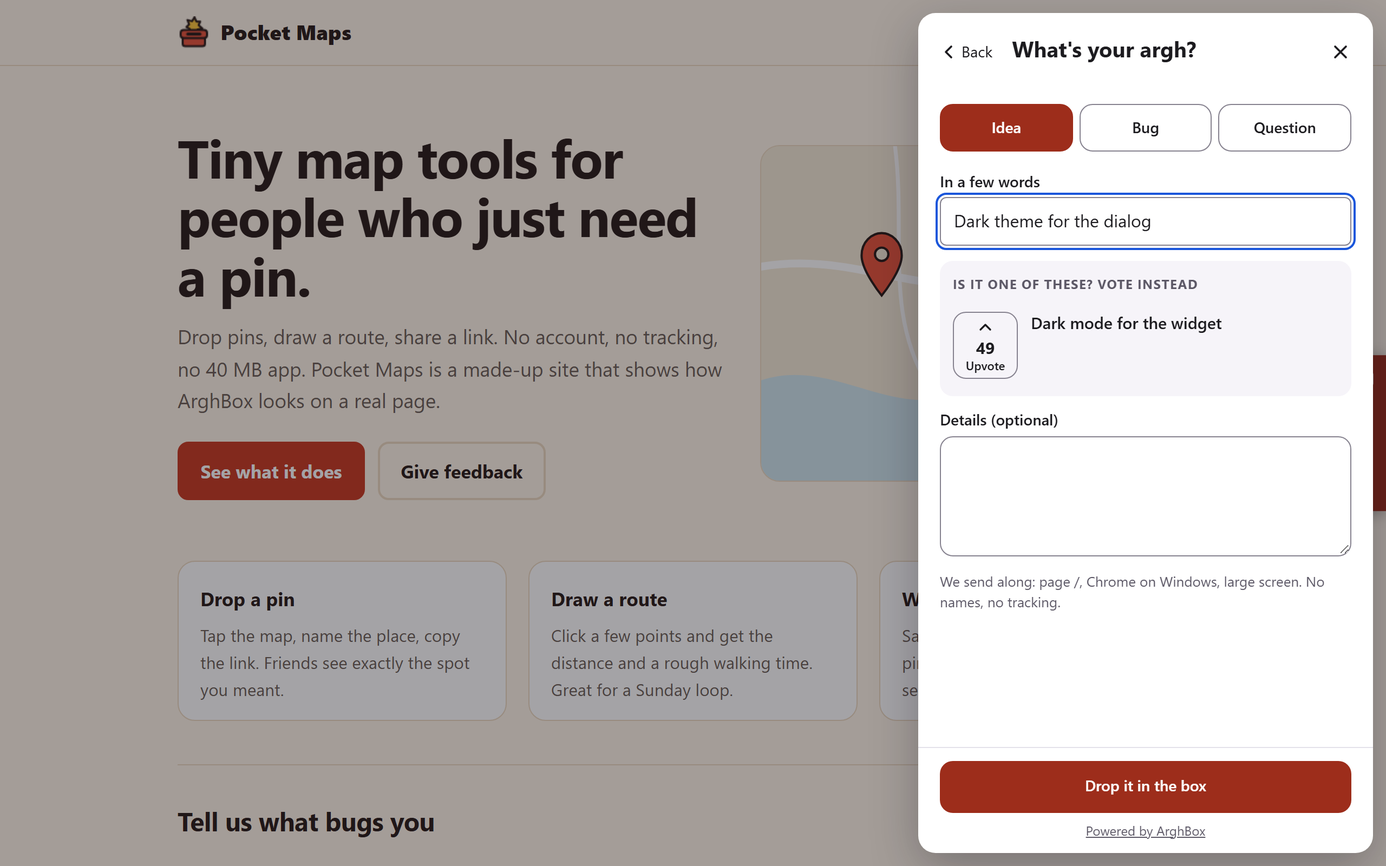
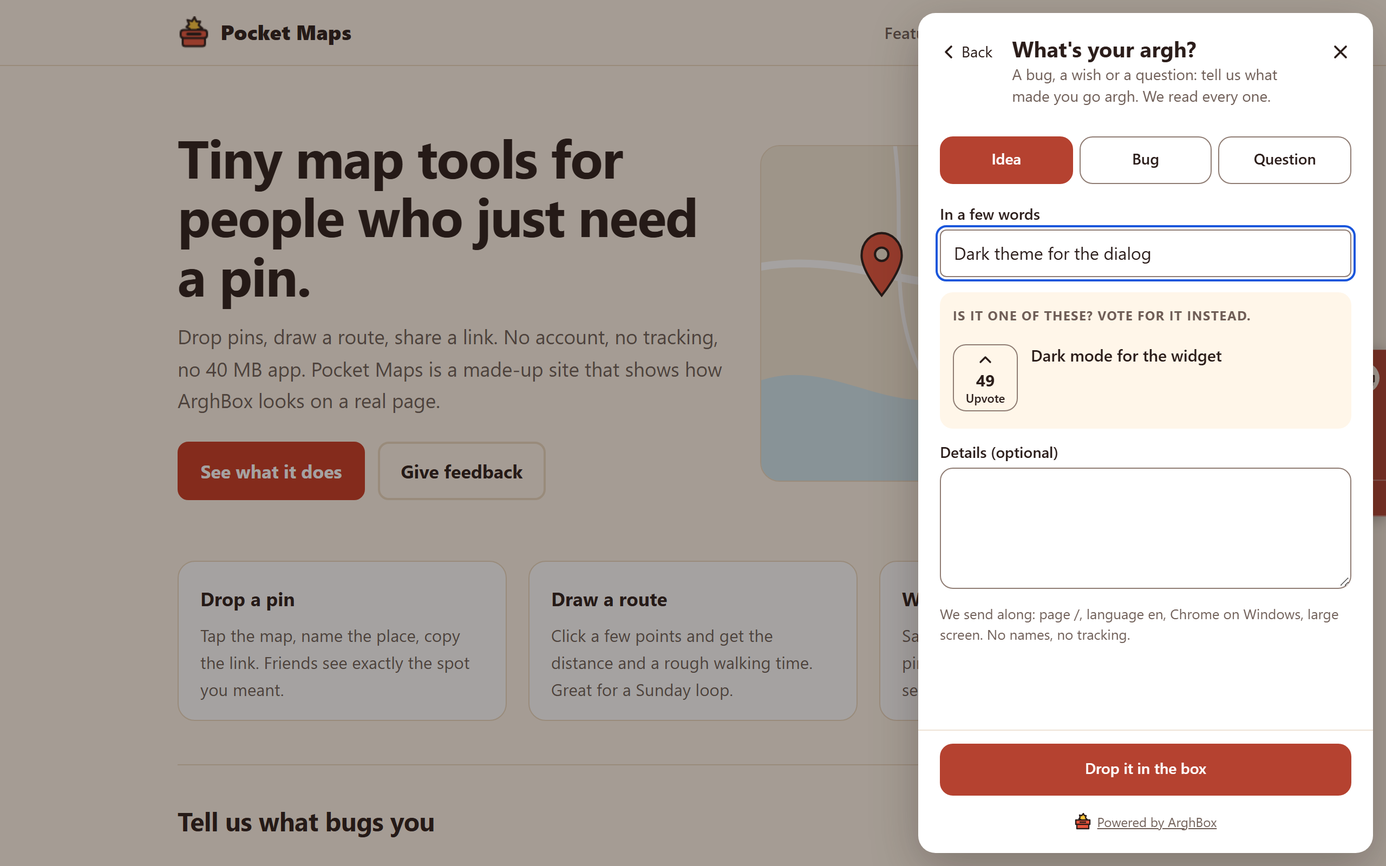
Update documentation and improve local preview functionality
- Enhanced `configuration.md` to clarify CORS settings and added details about the ArghBox logo and color customization.
- Updated `install.md` with instructions for testing on a local environment without a server and added guidance for running a real box.
- Modified various images in the documentation to reflect recent changes.
- Improved end-to-end tests to ensure accurate behavior of the ArghBox widget, including local preview scenarios and error handling.
- Added unit tests for the local preview's in-memory API to validate functionality without a server.
- Adjusted API tests to confirm CORS behavior with allowed origins ending in ":*".
- Updated size budget for `arghbox-app.js` in the size check tests.

diff --git a/demo/index.html b/demo/index.html
@@ -21,6 +21,7 @@
       <a href="#feedback">Feedback</a>
       <a href="#faq">FAQ</a>
       <a href="/arghbox/admin/">Admin</a>
+      <a class="fb-icon" id="header-feedback" href="#arghbox" aria-label="Feedback: share an idea or report a bug" title="Feedback"><svg viewBox="0 0 32 32" width="22" height="22" aria-hidden="true"><path fill="#ffc83d" d="M17 1l2 4h3l-1 4 3 3-4 1-1 4-3-3-4 3v-5l-3-1 2-3-1-4 4 1z"/><path fill="#e8553d" d="M3 13h26v8H3zM5 21v8h22v-8M10 17h12"/></svg></a>
     </nav>
   </div>
 </header>
@@ -60,7 +61,7 @@
       <div class="demo-links">
         <strong>Try the ways to open it</strong>
         <ul>
-          <li><a href="#arghbox">Open the feedback box</a> (<code>#arghbox</code> link)</li>
+          <li><a href="#arghbox">Open the feedback box</a> (<code>#arghbox</code> link; the ArghBox icon at the top right is one too)</li>
           <li><a href="#arghbox-bug">Report a bug</a> (<code>#arghbox-bug</code> link, starts on a bug)</li>
           <li><a href="#arghbox-add">Add a new idea</a> (<code>#arghbox-add</code> link)</li>
           <li><button class="btn ghost" type="button" id="open-api">Open from JavaScript</button> (<code>ArghBox.open()</code>)</li>

diff --git a/demo/demo.css b/demo/demo.css
@@ -47,6 +47,9 @@ header.top .wrap { display: flex; align-items: center; gap: 1rem; padding-top: .
 nav { margin-left: auto; display: flex; gap: 1.25rem; flex-wrap: wrap; }
 nav a { color: var(--muted); text-decoration: none; font-weight: 600; font-size: .95rem; }
 nav a:hover { color: var(--ink); }
+nav .fb-icon { display: inline-flex; align-items: center; }
+.fb-icon svg { stroke: currentColor; stroke-width: 2; stroke-linejoin: round; }
+@media (prefers-reduced-motion: no-preference) { .fb-icon svg { transition: transform .2s; } .fb-icon:hover svg { transform: rotate(-8deg) scale(1.08); } }
 
 .hero { padding: 3.5rem 0 2.5rem; display: grid; gap: 2rem; grid-template-columns: 1.1fr .9fr; align-items: center; }
 .hero h1 { font-size: clamp(2rem, 5vw, 3.1rem); line-height: 1.1; margin: 0 0 1rem; letter-spacing: -.02em; }

diff --git a/arghbox/arghbox-preview.js b/arghbox/arghbox-preview.js
@@ -11,6 +11,7 @@
 
   // Returns the widget's call(action, body) for the preview. api: the URL that did not answer; code: how it failed.
   window.__arghboxPreview = function (api, code) {
+    api = String(api).replace(/^https?:\/\//, ''); // shown as text: the dialog links only the docs
     var why = code === 'not_configured' ? 'the ArghBox at ' + api + ' has no config.php yet'
       : code === 'network' ? 'no ArghBox server answered at ' + api
       : 'the answer from ' + api + ' was not ArghBox (is PHP running there?)';

diff --git a/arghbox/config.example.php b/arghbox/config.example.php
@@ -44,6 +44,7 @@ return [
 
     // Extra origins allowed to call the public API from a browser (CORS).
     // The site's own origin always works. Example: ['https://www.example.com'].
+    // An origin ending in ":*" allows that host on any port, for development: ['http://localhost:*'].
     'allowed_origins' => [],
 
     // Absolute path outside the web root, or null for automatic (arghbox-private/ next to the web root; see docs).

diff --git a/docs/SPEC.md b/docs/SPEC.md
@@ -37,7 +37,8 @@ fix one of them in the same change. Version 0.1.0.
 ```
 arghbox/                  the folder site owners upload, served at /arghbox/
   arghbox.js              loader: tab + JS API, < 4 KB gzipped
-  arghbox-app.js          dialog, loaded on first intent, < 20 KB gzipped
+  arghbox-app.js          dialog, loaded on first intent, < 21 KB gzipped
+  arghbox-preview.js      the local preview's in-memory box, loaded only on a local dev host (section 8)
   app.html                the mobile app page: the dialog full screen, for an app's WebView (section 8b)
   app-page.js             that page's script: URL parameters, loader tag, bridges to the app, < 2 KB gzipped
   i18n/en.json            widget strings (source of truth for translations)
@@ -84,7 +85,7 @@ Version string `0.1.0` appears in `arghbox/VERSION`, `ArghBox.version` in both J
 | `owner_token_sha256` | `''` | sha256 hex of the owner token (admin page sign-in, admin API) |
 | `triage_token_sha256` | `''` | sha256 hex of the triage token (admin API only) |
 | `trusted_ip_header` | `''` | `''` uses `REMOTE_ADDR`; `'HTTP_CF_CONNECTING_IP'` behind Cloudflare; `'HTTP_X_REAL_IP'` for Hostinger CDN |
-| `allowed_origins` | `[]` | Extra origins allowed to call the public API (CORS). Same origin always works. |
+| `allowed_origins` | `[]` | Extra origins allowed to call the public API (CORS). Same origin always works. An entry ending in `:*` (`'http://localhost:*'`) allows that scheme and host on any port, or none; meant for development |
 | `data_dir` | `null` | Absolute path; `null` means automatic (below) |
 | `moderation` | `'pending'` | `'pending'`: new entries wait for triage. `'publish'`: shown at once. |
 | `auto_apply_min_confidence` | `80` | Triage decisions below it are stored as `flag` (owner decides) |
@@ -284,7 +285,8 @@ Error codes: `bad_request`, `invalid_input`, `method_not_allowed`, `not_found`,
 (403: a read-only token on a write, or the owner token on MCP), `conflict`, `not_configured`,
 `busy` (503 + `Retry-After: 2`: another PHP worker holds the database; retry), `server_error`.
 
-**CORS.** Same-origin requests need nothing. For an `Origin` in `allowed_origins`, answer with
+**CORS.** Same-origin requests need nothing. For an `Origin` in `allowed_origins` (exact match, or
+an entry `<scheme>://<host>:*` matching that scheme and host with any port or none), answer with
 `Access-Control-Allow-Origin: <origin>`, `Vary: Origin`, `Access-Control-Allow-Methods: GET,
 POST, OPTIONS`, `Access-Control-Allow-Headers: Content-Type, X-ArghBox-Voter`, `Access-Control-Max-Age:
 600`, and answer `OPTIONS` with 204. A POST whose `Origin` is neither same-origin nor allowed
@@ -676,7 +678,7 @@ Attributes (all optional):
 | `data-label` | tab text | `"Feedback"` (from strings) |
 | `data-lang` | language code | `<html lang>`, else `en` |
 | `data-theme` | `auto` (prefers-color-scheme), `light`, `dark`, `host` (follows `html.dark` class or `html[data-theme="dark"]`, watched with a MutationObserver) | `auto` |
-| `data-accent` | any CSS colour, including `var(--host-var)` (custom properties cross the shadow boundary) | `#e8553d` |
+| `data-accent` | any CSS colour, including `var(--host-var)` (custom properties cross the shadow boundary); sets `--arghbox-accent` on the wrapper (see Host styling) | `#e8553d` |
 | `data-tone` | `funny`, `neutral` | `funny` |
 | `data-tab` | `on`, `off` (no tab; open with the JS API or a `#arghbox` link) | `on` |
 | `data-tab-min-width` | viewport width in px below which the edge tab is not shown (it follows rotation and resizing). `ArghBox.open()`, `#arghbox` links and `ArghBox.showTab()` still work, and `#arghbox-root[data-tab]` and the `arghbox:tab` event follow. For pages that have their own Feedback button on narrow screens | `0` (always shown) |
@@ -714,9 +716,12 @@ window.ArghBox = {
   no network request at load.
 - Finds its own URL with `document.currentScript` (fallback: the last `script[src*="arghbox.js"]`).
 - Creates `<div id="arghbox-root">` at the end of `body` with an **open** Shadow DOM. Styles go
-  into the shadow root (adoptedStyleSheets when supported, else a `<style>` element). Nothing
-  else in the host DOM except the Turnstile container (below).
-- Renders the tab: vertical "Feedback" label on the chosen edge with a small box icon, and the ×
+  into the shadow root as a constructable stylesheet (`adoptedStyleSheets`, every supported browser
+  has it; the app keeps a `<style>` fallback). Nothing else in the host DOM except the Turnstile
+  container (below).
+- Renders the tab: vertical "Feedback" label on the chosen edge under the ArghBox mark (the burst
+  in yellow and the box in the accent, `art/logo-mark-small.svg` simplified, an inline SVG built
+  with `createElementNS`) on a cream badge, and the ×
   (a separate button with `aria-label="Hide feedback button"`). Keyboard focusable, visible
   focus ring, respects `prefers-reduced-motion`.
 - Prefetches `arghbox-app.js` on tab `pointerenter`, `focus` or `touchstart`; loads it on click
@@ -727,7 +732,7 @@ window.ArghBox = {
   (`tools/translate.mjs` rewrites this block), and the list of available languages between
   `/* arghbox:langs:start */` and `/* arghbox:langs:end */` as `var LANGS = ["en"];`.
 
-### App (`arghbox-app.js`, < 20 KB gzipped)
+### App (`arghbox-app.js`, < 21 KB gzipped)
 - Fetches `i18n/<lang>.json` (lang matched against `LANGS`: exact, then the part before `-`,
   else `en`) and `api.php?action=list` in parallel when it mounts.
 - **Dialog**: `role="dialog"`, `aria-modal="true"`, labelled by its title, focus trapped, Esc and
@@ -778,7 +783,8 @@ window.ArghBox = {
     - Similarity is computed in the browser from the loaded list, with no network: titles,
       aliases, tags and the start of the body; lowercase, accents and punctuation stripped,
       word overlap plus prefix matches.
-  - Thanks: "Your argh is in the box." (pending) or "Your argh is up." (publish mode).
+  - Thanks: "Your argh is in the box." (pending) or "Your argh is up." (publish mode), with "Thanks for helping
+    us improve {site}!".
   - **Report** (section 6b): the detail view of a visitor entry (never `source: owner`) has a small "Report"
     button. It opens an inline choice of four reasons (Spam, Rude or abusive, Not about this site or app,
     Something else) with "Send report" and "Cancel". Sending needs a pass, like voting. On success the entry id
@@ -804,8 +810,27 @@ window.ArghBox = {
   works and voting/adding show a friendly message.
 - **Errors**: every error code from section 6 maps to a friendly string; `rate_limited` shows
   the wait in minutes. The dialog never shows raw JSON.
-- **Credit**: when `credit` is true and `data-credit` is not `off`, a small "ArghBox" link in the
-  footer to `https://github.com/BinaryBananaLLC/ArghBox` (`rel="noopener"`, `target="_blank"`).
+- **Credit**: when `credit` is true and `data-credit` is not `off`, a small "Powered by ArghBox" link
+  with the ArghBox mark in its own colours (outline in the text colour) in the footer, to `https://arghbox.com/`
+  (`rel="noopener"`, `target="_blank"`).
+- **What the box is for**: every view says it in plain words. The list header has a subtitle ("Found a bug or
+  missing a feature on {site}? Tell us, or upvote what others asked for. No account needed."), the add form one
+  too ("... We read every one."). These follow the usual pattern of feedback widgets: a short title, one line on
+  what to do and that no account is needed, and a thank-you at the end.
+- **Local preview**: when the first `list` fails with `network`, `not_configured` or an answer that is not JSON
+  at all, on a page whose host is `localhost`, `127.0.0.1`, `[::1]` or `*.localhost`, and
+  `window.ArghBoxConfig.localPreview` is not `false`, the app loads `arghbox-preview.js?v=<version>` (with the
+  nonce and the Trusted Types policy) and sends every API call to its in-memory box instead: sample entries of
+  every type and status, voting and adding that work until a reload, no Turnstile (it answers `app_pass: true`),
+  no receipts, ids above 900000 so remembered votes and reports never touch a real box. The `welcome` text says
+  "Local preview", what did not answer (the API URL without its scheme, so it is not a link) and links to
+  `docs/install.md#test-on-your-computer`. A JSON error from a real box never switches to the preview.
+  Production hosts never load the file. The point: a site can try its integration (placement, colours, its own
+  buttons and links) on its dev server before it has PHP or a box.
+- **Host styling**: hosts restyle the widget with CSS custom properties set on `:root` or `#arghbox-root` (they
+  cross the shadow boundary): `--arghbox-accent` (what `data-accent` sets on the wrapper, so the attribute wins),
+  `--arghbox-bg`, `--arghbox-fg`, `--arghbox-muted`, `--arghbox-card`, `--arghbox-border`, `--arghbox-line` and
+  `--arghbox-font`. The colour ones apply to the theme that is showing. A host's plain `--accent` does not leak in.
 - **Copy**: funny by default, poking fun at frustration, never at the visitor; `data-tone="neutral"`
   switches to plain copy. Both tones are keys in `i18n/en.json` (`*.funny` / `*.neutral` pairs
   only where they differ).
@@ -818,14 +843,16 @@ fall back to `.other`, then to English. `_meta` key holds `{lang, name, version}
 ### Implementation details (settled while building the widget)
 
 - **String lookup order:** `key.<tone>.<plural>`, `key.<tone>.other`, `key.<tone>`,
-  `key.<plural>`, `key.other`, `key`, then the same in English. v1 has 126 keys and about 600
+  `key.<plural>`, `key.other`, `key`, then the same in English. v1 has about 140 keys and about 650
   English words.
 - **Client-side error keys:** `err.turnstile_unavailable`, `err.network` and
   `err.title_short`.
 - **Mount contract:** `window.__arghboxApp.mount(shadowRoot, cfg)` returns `{open(options,
   fromElement), close(), isOpen()}`. Pure helpers sit on `window.__arghboxApp.helpers` for the
   unit tests.
-- **Theme:** the app applies `data-theme`, not the loader. The tab uses accent colours only.
+- **Theme:** the app applies `data-theme`, not the loader. The tab uses accent colours only. Default tokens come
+  from the ArghBox palette (`art/README.md`): light `#fff` background, ink `#2b1d1a`, muted `#6e5d56`, cream
+  `#fff6e9` panels; dark night `#1f1613`, cream text, `#2c211d` panels. Text tokens pass 4.5:1, borders 3:1.
 - **Accent contrast:** filled buttons and the tab use the accent mixed 78% with black
   (`color-mix`), so white text passes WCAG AA. The plain accent is for highlights only.
 - **Prefetch:** done with `fetch(no-cors)`, so the loader adds nothing to the host's `<head>`.
@@ -1029,7 +1056,7 @@ Files: `skill/arghbox-triage/` — `SKILL.md`, `PROMPT.md`, `RULES.md`, `triage.
 
 `arghbox` on npmjs.com holds the `arghbox/` folder (without `config.php`, databases, `data/` contents, logs and `.bak` files), the triage skill, `bin/`, `index.mjs`/`index.d.ts`, `tools/install.mjs` and `tools/new-secrets.mjs`. It has no runtime dependencies. `package.json`, `arghbox/VERSION`, `lib/version.php` and the CHANGELOG heading always carry the same version (`tests/tools/package.test.mjs`). `.github/workflows/release.yml` publishes a version only when the owner runs it (Actions, Release, Run workflow, or a pushed `vX.Y.Z` tag). It checks the tag against package.json, npm and existing releases, builds the zips and the npm tarball with build provenance attestations, creates the GitHub Release (draft first, then published), and publishes to npm with `--provenance` (`--tag next` for pre-release versions). It runs no tests. `publishConfig` has no `provenance`, so a local `npm publish` works too.
 | `tools/translate.mjs <lang...> [--paid] [--all]` | **Owner only, paid** (Azure OpenAI). Translates missing or changed keys of `arghbox/i18n/en.json` into `i18n/<lang>.json`, updates the LABELS and LANGS blocks in `arghbox.js`. Reads `AZURE_OPENAI_ENDPOINT`, `AZURE_OPENAI_API_KEY`, `AZURE_OPENAI_DEPLOYMENT` from the environment or the git-ignored `.secrets/azure-openai.json`. Without `--paid` it only prints what it would send and costs nothing. Agents never run it with `--paid`. |
-| `tools/check-size.mjs` | Fails when `arghbox.js` > 4 KB, `arghbox-app.js` > 20 KB or `app-page.js` > 2 KB gzipped. |
+| `tools/check-size.mjs` | Fails when `arghbox.js` > 4 KB, `arghbox-app.js` > 21 KB or `app-page.js` > 2 KB gzipped. |
 | `tools/render-art.mjs` | Renders the PNG art (favicons into `art/brand/`, social card, README banner) from `art/` sources with Playwright. |
 | `tools/capture.mjs` | Takes the README screenshots of the real widget and admin page (on the demo page) with Playwright into `docs/images/`. |
 

diff --git a/docs/configuration.md b/docs/configuration.md
@@ -20,11 +20,11 @@ A PHP file that returns an array. `arghbox/config.example.php` documents every k
 | `read_token_sha256` | `''` | Optional sha256 hex of a read-only token: admin GET actions, exports and MCP read tools. |
 | `trusted_ip_header` | `''` | Which header carries the visitor's IP. Empty uses the connection address. Use `'HTTP_CF_CONNECTING_IP'` behind Cloudflare and `'HTTP_X_REAL_IP'` behind Hostinger's CDN. The header is only believed when the connection itself comes from a trusted proxy: Cloudflare's published address ranges (built in) for `HTTP_CF_CONNECTING_IP`, or the addresses in `trusted_proxies`. `'HTTP_X_FORWARDED_FOR'` needs `trusted_proxies`; the right-most address that is not one of your proxies wins. IPv6 visitors are grouped by their /64 and IPv4-mapped addresses count as IPv4. |
 | `trusted_proxies` | `[]` | Addresses or CIDR ranges of your own proxies, for example `['203.0.113.7', '10.0.0.0/8']`. Overrides the built-in Cloudflare list for `HTTP_CF_CONNECTING_IP`. |
-| `allowed_origins` | `[]` | Extra origins that may call the public API from a browser (CORS), for example `['https://www.example.com']`. Your own origin always works. |
+| `allowed_origins` | `[]` | Extra origins that may call the public API from a browser (CORS), for example `['https://www.example.com']`. Your own origin always works. An origin ending in `:*`, such as `'http://localhost:*'`, allows that host on any port: meant for development (see [Test on your computer](install.md#test-on-your-computer)). |
 | `data_dir` | `null` | Absolute path for the database, outside the web root. `null` means automatic (see below). |
 | `moderation` | `'pending'` | `'pending'`: new entries wait for triage or your review. `'publish'`: they show at once. |
 | `auto_apply_min_confidence` | `80` | Triage verdicts below this confidence are stored as "flag" for you to decide. |
-| `credit` | `true` | Show the small "Powered by ArghBox" link in the dialog. |
+| `credit` | `true` | Show the small "Powered by ArghBox" link, with the ArghBox logo, in the dialog footer. It links to arghbox.com. |
 | `tags` | `[]` | Preset tags offered first to the triage AI and to you, for example `['map', 'export', 'mobile']`. |
 | `welcome` | `''` | A short plain-text note from you at the top of the dialog (up to 500 characters). |
 | `mcp_enabled` | `true` | Serve `mcp.php` (see [mcp.md](mcp.md)). |
@@ -85,7 +85,7 @@ All attributes are optional.
 | `data-label` | Tab text | "Feedback" (translated when the language is available) |
 | `data-lang` | Language code, for example `pl` | the page's `<html lang>`, else `en` |
 | `data-theme` | `auto` follows the visitor's light or dark setting, `light`, `dark`, or `host` follows your site (the `dark` class on `<html>` or `data-theme="dark"` on it) | `auto` |
-| `data-accent` | Any CSS colour, including `var(--your-variable)` | `#e8553d` |
+| `data-accent` | Any CSS colour, including `var(--your-variable)`. The same as `--arghbox-accent` below, and wins over it | `#e8553d` |
 | `data-tone` | `funny`, `neutral` | `funny` |
 | `data-tab` | `on`, `off`. With `off` there is no tab: open the box from your own button or link | `on` |
 | `data-tab-min-width` | Viewport width in px below which the edge tab is not shown, for example `600` when the tab would cover text on narrow phones and your header has its own Feedback button. `ArghBox.open()`, `#arghbox` links and `ArghBox.showTab()` still work, and it follows rotating a phone | `0` (always shown) |
@@ -98,9 +98,50 @@ All attributes are optional.
 
 ### Opening the box from your own page
 
-- A link or a visit to `#arghbox` opens the dialog. `#arghbox-add` opens the add form, `#arghbox-bug` starts a bug report, and `#arghbox-<id>` opens one entry (the Atom feed links use this).
-- From JavaScript: `ArghBox.open({ type: 'bug', view: 'add' })`, `ArghBox.close()`, `ArghBox.showTab()` and `ArghBox.hideTab()`.
-- Events on `window`: `arghbox:ready`, `arghbox:open`, `arghbox:close`, `arghbox:add`, `arghbox:vote` and `arghbox:dismiss`. They never carry visitor text.
+The tab is only one way in. Any page can open the same dialog from its own buttons, for example an icon in your header next to your other contact icons, or a "Share an idea" button on your About or Contact page.
+
+- A link or a visit to `#arghbox` opens the dialog. `#arghbox-add` opens the add form, `#arghbox-bug` starts a bug report, and `#arghbox-<id>` opens one entry (the Atom feed links use this). The widget removes the hash again, so the URL stays clean. Links need no JavaScript, work in Markdown (`[Share an idea](#arghbox-add)`) and still work when they are clicked before the widget has loaded. They must open in the same tab (no `target="_blank"`).
+- From JavaScript: `ArghBox.open({ type: 'bug', view: 'add' })`, `ArghBox.close()`, `ArghBox.showTab()` and `ArghBox.hideTab()`. Before the deferred script has run, `ArghBox` is not there yet, so links are the safer choice for content that shows at once.
+- Events on `window`: `arghbox:ready`, `arghbox:open`, `arghbox:close`, `arghbox:add`, `arghbox:vote`, `arghbox:dismiss` and `arghbox:tab`. They never carry visitor text.
+
+```html
+<!-- in the header: the ArghBox logo as an icon link -->
+<a href="#arghbox" aria-label="Feedback: share an idea or report a bug" title="Feedback">
+  <svg viewBox="0 0 32 32" width="22" height="22" aria-hidden="true" stroke="currentColor" stroke-width="2" stroke-linejoin="round">
+    <path fill="#ffc83d" d="M17 1l2 4h3l-1 4 3 3-4 1-1 4-3-3-4 3v-5l-3-1 2-3-1-4 4 1z"/>
+    <path fill="#e8553d" d="M3 13h26v8H3zM5 21v8h22v-8M10 17h12"/>
+  </svg>
+</a>
+
+<!-- on the About or Contact page -->
+<a class="button" href="#arghbox-add">Share an idea</a>
+<a class="button" href="#arghbox-bug">Report a bug</a>
+```
+
+The logo files are in [art/](../art/README.md). Using the logo to point at ArghBox is fine; see [TRADEMARKS.md](../TRADEMARKS.md).
+
+### Colours and fonts
+
+By default the widget wears ArghBox's own palette: the red accent, warm ink text, cream panels, and a dark theme in the brand's night colours. `data-accent` and `data-theme` cover most sites. To match your design further, set these CSS custom properties in your own stylesheet, on `:root` or on `#arghbox-root`. Custom properties cross the widget's Shadow DOM, nothing else does.
+
+| Property | What it colours | Default (light / dark) |
+|---|---|---|
+| `--arghbox-accent` | The tab, the main buttons, selected states and highlights. Darkened where needed so white text stays readable | `#e8553d` |
+| `--arghbox-bg` | Dialog background | `#fff` / `#1f1613` |
+| `--arghbox-fg` | Text | `#2b1d1a` / `#fff6e9` |
+| `--arghbox-muted` | Secondary text | `#6e5d56` / `#b8a8a0` |
+| `--arghbox-card` | Soft panels: the Ideas and Bugs switch, suggestions, comments | `#fff6e9` / `#2c211d` |
+| `--arghbox-border` | Borders of fields, chips and vote buttons | `#8f7c73` / `#8a7870` |
+| `--arghbox-line` | Dividers | `#eee3d6` / `#3b2d28` |
+| `--arghbox-font` | Font of the tab and the dialog | the system font |
+
+```css
+:root { --arghbox-accent: #2563eb; --arghbox-font: Inter, system-ui, sans-serif; }
+/* the colour properties apply to the theme that is showing, so set them per theme */
+html.dark { --arghbox-bg: #0f172a; --arghbox-card: #1e293b; }
+```
+
+Keep text readable: `--arghbox-fg` and `--arghbox-muted` need a contrast of at least 4.5:1 on `--arghbox-bg` and `--arghbox-card`, and `--arghbox-border` at least 3:1.
 
 ### Content Security Policy
 
@@ -116,7 +157,7 @@ ArghBox works under a strict CSP. These are the sources it needs. Replace `https
 Content-Security-Policy: script-src 'self' https://challenges.cloudflare.com; frame-src https://challenges.cloudflare.com; connect-src 'self'
 ```
 
-You do **not** need `style-src 'unsafe-inline'`. The only exception is Safari before 16.4, which cannot attach the widget's styles without it; newer browsers are fine.
+You do **not** need `style-src 'unsafe-inline'`: the widget attaches its styles as constructable stylesheets, which every supported browser has (Safari since 16.4).
 
 - **Nonces.** If your CSP uses `'nonce-...'`, put the nonce on the ArghBox script tag as usual. The loader passes it on to the scripts and styles it adds, so no extra source is needed.
 - **Trusted Types.** If you enforce them (`require-trusted-types-for 'script'`), add `trusted-types arghbox` to the policy. ArghBox creates one policy named `arghbox` for the script URLs it loads.

diff --git a/CHANGELOG.md b/CHANGELOG.md
@@ -2,6 +2,23 @@
 
 All notable changes are listed here. The format follows [Keep a Changelog](https://keepachangelog.com/en/1.1.0/), and the project uses [Semantic Versioning](https://semver.org/).
 
+## [Unreleased]
+
+### Added
+
+- **Local preview:** on `localhost`, `127.0.0.1` or `*.localhost`, when no ArghBox answers (no server, no PHP, no `config.php`), the dialog shows sample entries and a "Local preview" note instead of an error. Voting and adding work and save nothing, so a site can try its integration before it has a box. `window.ArghBoxConfig = { localPreview: false }` turns it off. See "Test on your computer" in `docs/install.md`.
+- **Styling:** hosts can restyle the tab and the dialog with CSS custom properties: `--arghbox-accent`, `--arghbox-bg`, `--arghbox-fg`, `--arghbox-muted`, `--arghbox-card`, `--arghbox-border`, `--arghbox-line` and `--arghbox-font` (`docs/configuration.md`).
+- **CORS:** an `allowed_origins` entry ending in `:*` (for example `'http://localhost:*'`) allows that host on any port. `tools/dev.mjs` uses it, so a site's dev server works with the local box whatever port it got.
+- **Docs:** how to open the box from your own header icon or About page button, with the logo snippet.
+
+### Changed
+
+- **Look:** the tab shows the ArghBox mark on a cream badge instead of the plain box icon, and the dialog uses the ArghBox palette (warm ink text, cream panels, a night-brown dark theme).
+- **Copy:** the list and the add form now say what the box is for and that no account is needed, and the thank-you screen thanks the visitor for helping improve the site.
+- **Credit:** "Powered by ArghBox" carries the logo and links to arghbox.com.
+- `data-accent` now sets `--arghbox-accent`. A host's own `--accent` variable no longer leaks into the widget.
+- The dialog script's size budget is 21 KB gzipped (was 20 KB). The loader stays under 4 KB.
+
 ## [0.1.0] - 2026-11-17
 
 The first public version.

diff --git a/docs/install.md b/docs/install.md
@@ -176,6 +176,15 @@ Change the `?v=` number when you upgrade, so visitors' browsers fetch the new fi
 
 Try it: open the tab, add a test idea. It lands in the admin page under **Pending**.
 
+### Test on your computer
+
+**Without a server: the local preview.** Add the script tag and open your site from your own dev server (`localhost`, `127.0.0.1` or a `*.localhost` name, any port). If no ArghBox answers there, because there is no PHP, no `config.php` or no server at `data-api`, the dialog opens anyway. It shows sample entries and a "Local preview" note that says what did not answer, and voting and adding work but save nothing. That is enough to check where the tab sits, your colours, and your own buttons and `#arghbox` links. Production sites never see it, and `window.ArghBoxConfig = { localPreview: false }` (set before the script tag) turns it off on your machine too.
+
+**With a real box.** You need PHP 8.1 or newer with SQLite (`pdo_sqlite`).
+
+- In a clone of the ArghBox repository, `node tools/dev.mjs --port 8787 --seed` runs a box with sample entries and a fake Turnstile check. It accepts calls from `http://localhost` and `http://127.0.0.1` on any port, so point your page at it in development only: `data-api="http://localhost:8787/arghbox/api.php"`. `node tools/dev.mjs --help` lists the options.
+- Or run your own copy: a `config.php` with Cloudflare's test keys (above), a `secret` from `npx arghbox secrets`, and `'allowed_origins' => ['http://localhost:*']` when your page runs on another port than PHP. An origin ending in `:*` allows that host on any port, which is meant for development. Then start `php -S localhost:8787` in the folder that holds `arghbox/`.
+
 ## 7. If your site is behind a CDN or a cache
 
 If your domain uses Cloudflare's proxy (the orange cloud), Hostinger's CDN or any page-cache plugin, two things matter.
